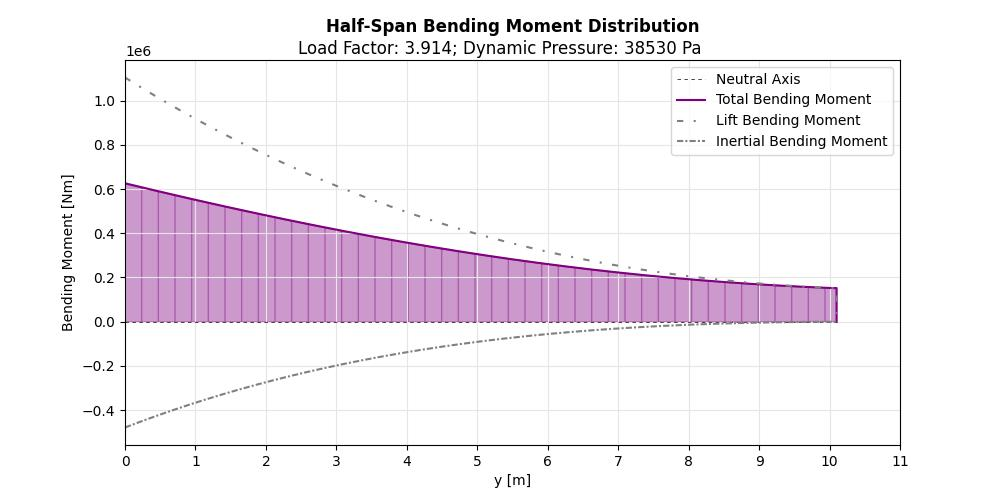
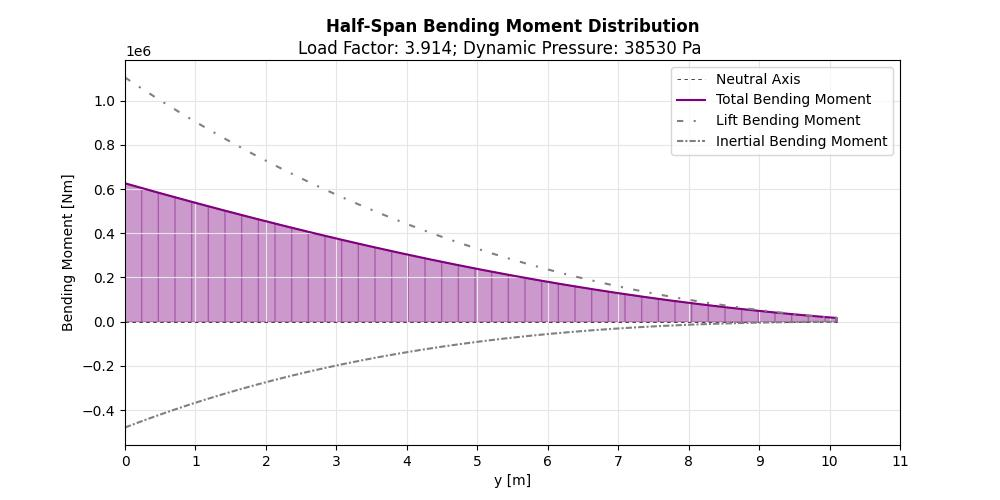
the fucking winglets work jesus christ amen on jahseh HIMSELF

diff --git a/aero_loading.py b/aero_loading.py
@@ -11,16 +11,20 @@ def getWingletForce(winglet_force):
     ymac_wlt = yMAC(wlt_span,wlt_cr,wlt_ct) # Obtain location of winglet MAC
     wlt_y = b/2*np.cos(np.deg2rad(gamma))+ymac_wlt*np.cos(np.deg2rad(wlt_gamma)) # Obtain location of vertical force component
     wlt_force_y = winglet_force*np.sin(wlt_gamma) # Obtain vertical force components
-    # print(wlt_force_y)
+    print(wlt_force_y)
     
     return wlt_force_y
 
-def getWingletMoment(winglet_force): # Calculate Moment due to Winglet
+def getWingletMoment(y,winglet_force): # Calculate Moment due to Winglet
     
     ymac_wlt = yMAC(wlt_span,wlt_cr,wlt_ct) # Obtain location of winglet MAC
     
-    wlt_z = b/2*np.sin(np.deg2rad(gamma))+ymac_wlt*np.sin(np.deg2rad(wlt_gamma)) # Obtain z and y moment arm lengths
-    wlt_y = b/2*np.cos(np.deg2rad(gamma))+ymac_wlt*np.cos(np.deg2rad(wlt_gamma))
+    winglet_moment = np.zeros(sample+1)
+    
+    wlt_z = (b/2-y*np.sin(np.deg2rad(gamma)))*np.sin(np.deg2rad(gamma))+ymac_wlt*np.sin(np.deg2rad(wlt_gamma)) # Obtain z and y moment arm lengths
+    wlt_y = (b/2-y*np.cos(np.deg2rad(gamma)))*np.cos(np.deg2rad(gamma))+ymac_wlt*np.cos(np.deg2rad(wlt_gamma))
+    
+    # print
     
     wlt_force_z = winglet_force*np.cos(wlt_gamma)  
     wlt_force_y = winglet_force*np.sin(wlt_gamma)
@@ -72,12 +76,14 @@ def getShearDist(y,dist,sample): # Obtains the shear distribution of the wing
 def getBendingDist(y,dist,sample): # Obtains the bending distribution of the wing
     
     bend_dist=np.zeros(sample+1) # Creates array
-    winglet_moment = getWingletMoment(winglet_force)
+    winglet_moment = getWingletMoment(y, winglet_force)
+    # winglet_moment[400]=0
     i=0
     for i in range(sample): # Numerical integration for each point in data (Bounds: [x,L])
-        bend_dist[i]=-sp.trapz(dist[i:(sample-2)],y[i:(sample-2)])+winglet_moment
+        bend_dist[i]=-sp.trapz(dist[i:(sample-2)],y[i:(sample-2)])+winglet_moment[i]
         # print(sp.trapz(y[i:(sample-1)],dist[i:(sample-1)]))
         bend_dist[400]=0
+    # bend_dist+=winglet_moment
     return bend_dist
 
 def getTorqueDist(y,ldist,mdist,sample):

diff --git a/codeinertia.py b/codeinertia.py
@@ -153,8 +153,22 @@ for n in range(399):
 
 v = 10.1/400 * dv
 
+##### Internal Stress
 
+# Bending Mx
 
+sigma_y = (M * h1/2)/I
+sigma_max = round(max(sigma_y)/10**6, 2)
 
-print('Angle of twist is', np.sum(theta), ' [rad]')
-print('Deflection is', np.sum(v), ' [m]')
+# Torsion T
+
+tau = T / (2*enc_area*t)
+tau_max = round(min(tau)/10**6, 2)
+
+print(sigma_y)
+print(I)
+
+print('Angle of twist is', np.sum(theta), '[rad]')
+print('Deflection is', np.sum(v), '[m]')
+print('Maximum normal stress due to bending is',sigma_max,'[MPa]')
+print('Maximum shear stress due to torsion is',tau_max,'[MPa]')
